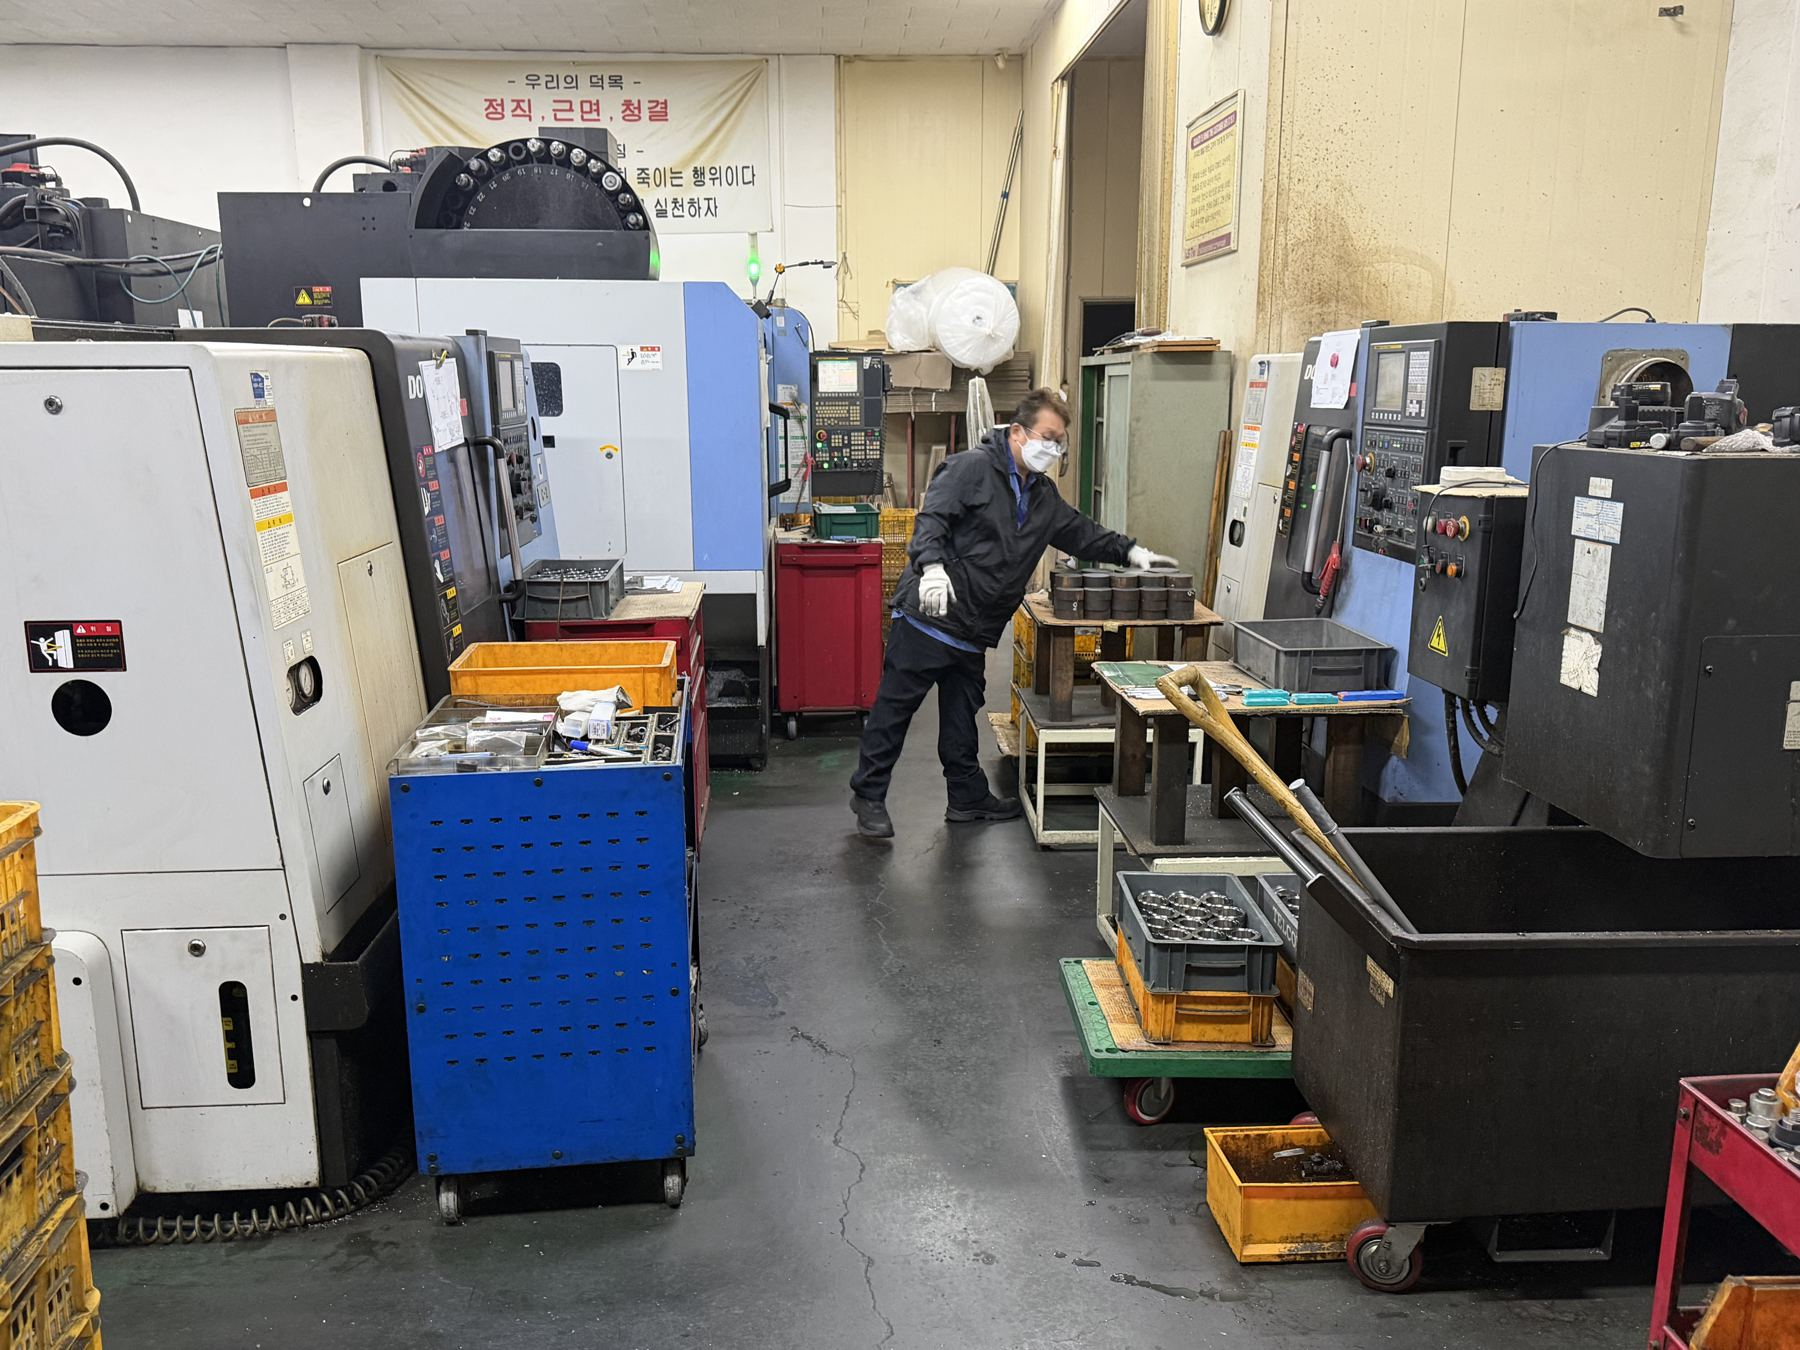
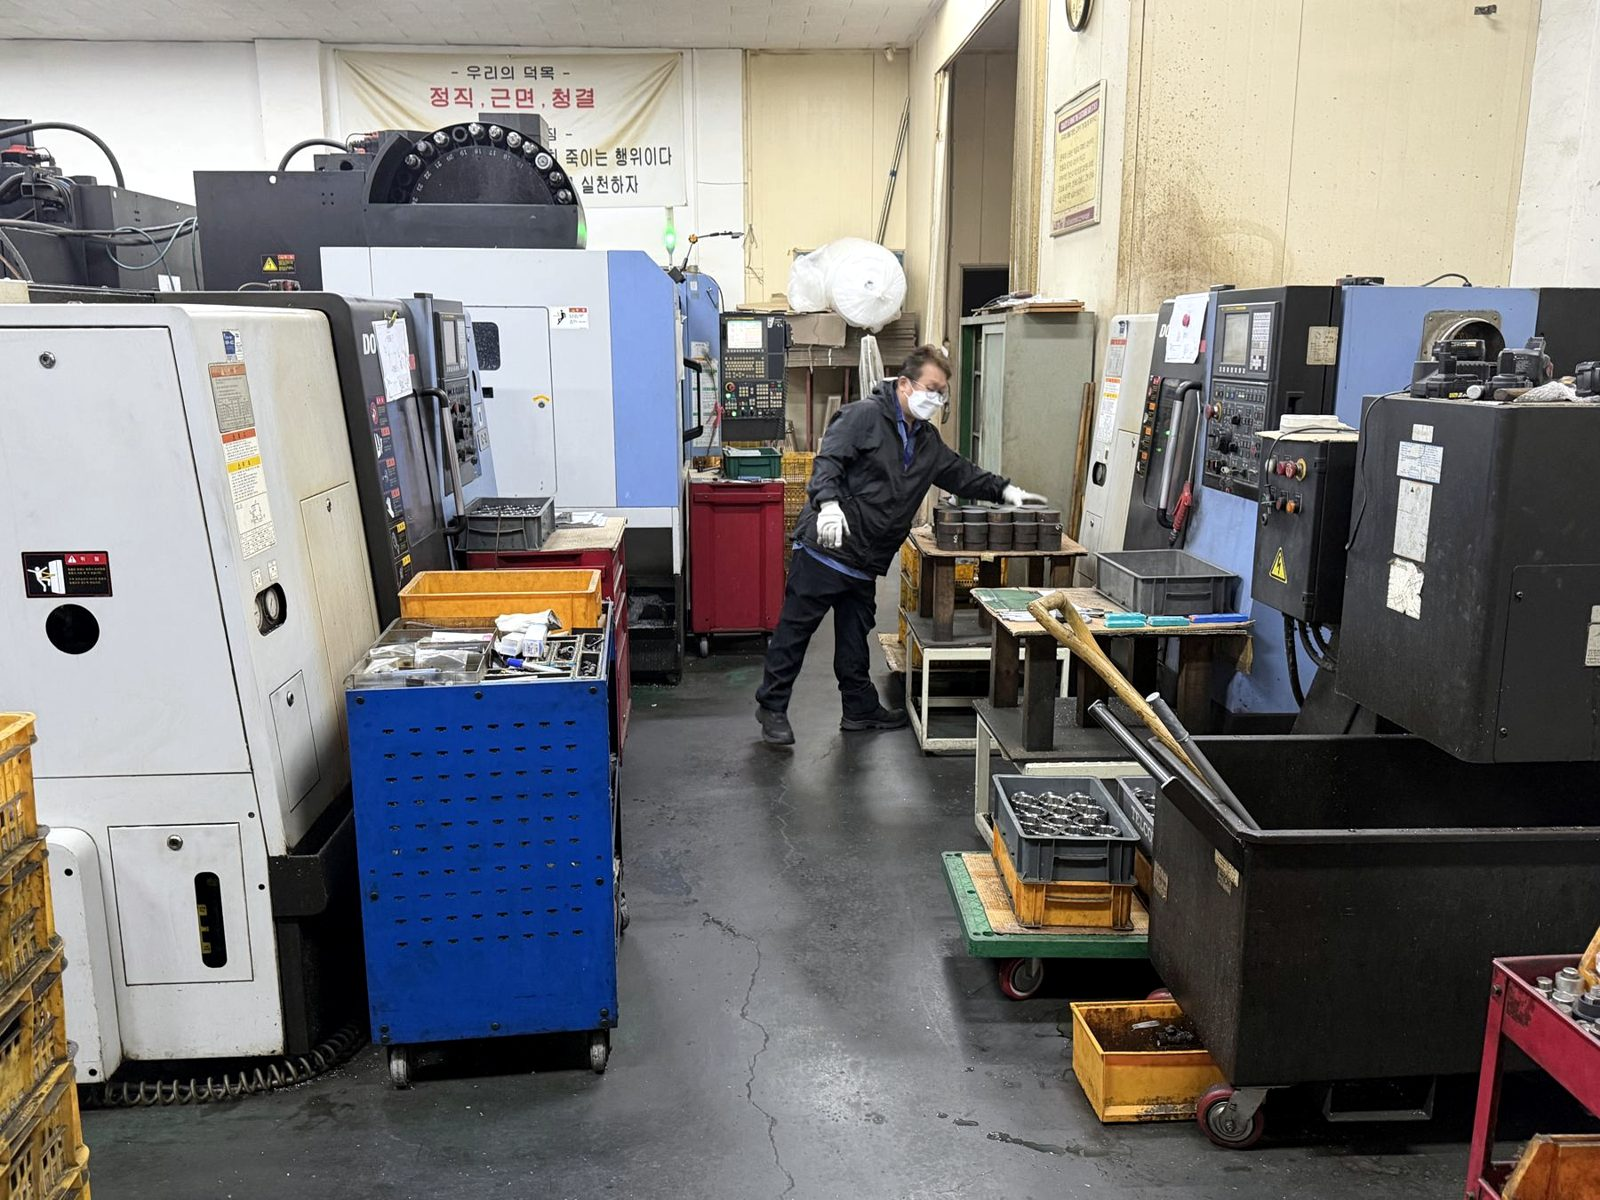
회사소개 페이지 다시 정리: 소개+공장 사진, 대표 띠, 공장 모습 4장, 품질 방침 3칸. 공장 사진 색 보정 통일, 홈 회사 소개 사진 한 장으로

diff --git a/about.html b/about.html
@@ -106,68 +106,75 @@
       </div>
     </div><!-- End Breadcrumbs -->
 
-    <!-- ======= About Section ======= -->
-    <section id="about" class="about">
-      <div class="container" data-aos="fade-up">
-
-        <div class="section-header">
-          <h2 data-i18n="about.intro.title">About</h2>
-          <p class="introduction" data-i18n="about.intro.body"> Our company is a manufacturing firm that specializes in meeting various customer demands by producing and
-            processing parts for  various applications. We utilize a range of techniques, including sheet
-            metal fabrication and machining, to create high-quality components and provide customized solutions for our
-            customers' projects. With our expertise and know-how, we establish efficient and precise production
-            processes to support our customers' business success. We are committed to quality and innovation, driving
-            continuous growth and development in the manufacturing sector.</p>
+    <!-- ======= Company intro ======= -->
+    <section class="ab-sec">
+      <div class="container ab-wrap">
+        <div class="row g-5 align-items-center">
+          <div class="col-lg-6">
+            <p class="ab-kicker">ASTM ENGINEERING · BSTM SHEET METAL</p>
+            <h2 class="ab-h2" data-i18n="about.intro.title">About</h2>
+            <p class="ab-lead" data-i18n="about.intro.body">Our company is a manufacturing firm that specializes in meeting various customer demands by producing and processing parts for various applications. We utilize a range of techniques, including sheet metal fabrication and machining, to create high-quality components and provide customized solutions for our customers' projects.</p>
+            <ul class="ab-facts">
+              <li><strong data-i18n="about.fact.1.big">20+</strong><span data-i18n="about.fact.1.small">years of machining</span></li>
+              <li><strong>ASTM</strong><span data-i18n="about.fact.2.small">CNC turning · MCT · gun drill</span></li>
+              <li><strong>BSTM</strong><span data-i18n="about.fact.3.small">laser · bending · welding</span></li>
+            </ul>
+          </div>
+          <div class="col-lg-6">
+            <img src="assets/img/factory/floor.jpg" alt="ASTM factory floor" class="ab-photo" loading="lazy">
+          </div>
         </div>
       </div>
-    </section><!-- End About Section -->
+    </section>
 
     <!-- ======= CEO ======= -->
-    <section id="ceo" class="about">
-      <div class="container" data-aos="fade-up">
-        <div class="row align-items-center g-4 justify-content-center">
-          <div class="col-md-4 col-8">
-            <img src="assets/img/factory/ceo.jpg" alt="Seung Soo Kim, CEO of ASTM Engineering" class="img-fluid rounded" style="width:100%;aspect-ratio:3/4;object-fit:cover;" loading="lazy">
+    <section class="ab-sec ab-tint">
+      <div class="container ab-wrap">
+        <div class="row g-5 align-items-center">
+          <div class="col-md-4 col-9 mx-auto mx-md-0">
+            <img src="assets/img/factory/ceo.jpg" alt="Seung Soo Kim, CEO of ASTM Engineering" class="ab-photo ab-photo-tall" loading="lazy">
           </div>
-          <div class="col-md-6">
-            <div class="section-header" style="text-align:left;padding-bottom:16px;">
-              <h2 data-i18n="about.ceo.title">CEO</h2>
-            </div>
-            <p style="font-size:17px;line-height:1.7;" data-i18n="about.ceo.body">Seung Soo Kim runs ASTM Engineering and BSTM. Quote requests and technical questions are answered by the CEO directly, so you can talk about your drawing with the person who makes the decisions.</p>
-            <p style="font-weight:700;margin-top:12px;font-size:17px;" data-i18n="about.ceo.name">Seung Soo Kim, CEO</p>
+          <div class="col-md-8">
+            <p class="ab-kicker" data-i18n="about.ceo.title">CEO</p>
+            <p class="ab-quote" data-i18n="about.ceo.body">Seung Soo Kim runs ASTM Engineering and BSTM. Quote requests and technical questions are answered by the CEO directly, so you can talk about your drawing with the person who makes the decisions.</p>
+            <p class="ab-name" data-i18n="about.ceo.name">Seung Soo Kim, CEO</p>
+            <a href="contact.html#contact-form" class="ab-btn" data-i18n="cta.quote">Contact Us</a>
           </div>
         </div>
       </div>
-    </section><!-- End CEO -->
+    </section>
 
-    <section id="about" class="about">
-      <div class="container" data-aos="fade-up">
-
-        <div class="section-header">
-          <h2 data-i18n="about.quality.title">Quality Policy</h2>
+    <!-- ======= Factory photos ======= -->
+    <section class="ab-sec">
+      <div class="container ab-wrap">
+        <h2 class="ab-h2" data-i18n="about.photos.title">Our factory</h2>
+        <p class="ab-sub" data-i18n="about.photos.lead">Photos taken at our factory in Namdong-gu, Incheon (October 2026).</p>
+        <div class="row g-4">
+          <figure class="col-6 col-lg-3 ab-fig"><img src="assets/img/factory/cnc_row.jpg" alt="" class="ab-photo" loading="lazy"><figcaption data-i18n="about.photos.cnc">CNC machining</figcaption></figure>
+          <figure class="col-6 col-lg-3 ab-fig"><img src="assets/img/factory/lathe.jpg" alt="" class="ab-photo" loading="lazy"><figcaption data-i18n="about.photos.lathe">Inside a CNC lathe</figcaption></figure>
+          <figure class="col-6 col-lg-3 ab-fig"><img src="assets/img/factory/pega357.jpg" alt="" class="ab-photo" loading="lazy"><figcaption>AMADA PEGA-357</figcaption></figure>
+          <figure class="col-6 col-lg-3 ab-fig"><img src="assets/img/factory/press_brake.jpg" alt="" class="ab-photo" loading="lazy"><figcaption data-i18n="about.photos.brake">AMADA press brake</figcaption></figure>
         </div>
-
-        <div class="quality-title">
-          <h6 data-i18n="about.quality.1.title">Customer-Centric Quality</h6>
-          <p data-i18n="about.quality.1.body">Our company places the customer at the forefront of our operations, striving to manufacture products that
-            meet and exceed their expectations. Quality is one of our core values.</p>
-        </div>
-
-        <div class="quality-title">
-          <h6 data-i18n="about.quality.2.title">Adherence to Stringent Quality Standards</h6>
-          <p data-i18n="about.quality.2.body">All products undergo rigorous testing and inspection to comply with strict quality standards and
-            regulations. This ensures the delivery of reliable products to our customers and prevents unnecessary
-            defects.</p>
-        </div>
-
-        <div class="quality-title">
-          <h6 data-i18n="about.quality.3.title">Continuous Quality Improvement</h6>
-          <p data-i18n="about.quality.3.body">We are committed to the continuous improvement of quality. We promote research and development to enhance
-            products and processes, leveraging customer feedback to enhance quality.</p>
-        </div>
-
       </div>
-    </section><!-- End About Section -->
+    </section>
+
+    <!-- ======= Quality policy ======= -->
+    <section class="ab-sec ab-tint">
+      <div class="container ab-wrap">
+        <h2 class="ab-h2" data-i18n="about.quality.title">Quality Policy</h2>
+        <div class="row g-4 mt-1">
+          <div class="col-lg-4"><div class="ab-card"><span class="ab-num">01</span>
+            <h3 data-i18n="about.quality.1.title">Customer-Centric Quality</h3>
+            <p data-i18n="about.quality.1.body">Our company places the customer at the forefront of our operations.</p></div></div>
+          <div class="col-lg-4"><div class="ab-card"><span class="ab-num">02</span>
+            <h3 data-i18n="about.quality.2.title">Adherence to Stringent Quality Standards</h3>
+            <p data-i18n="about.quality.2.body">All products undergo rigorous testing and inspection.</p></div></div>
+          <div class="col-lg-4"><div class="ab-card"><span class="ab-num">03</span>
+            <h3 data-i18n="about.quality.3.title">Continuous Quality Improvement</h3>
+            <p data-i18n="about.quality.3.body">We are committed to the continuous improvement of quality.</p></div></div>
+        </div>
+      </div>
+    </section>
 
     <!-- <section id="history" class="history">  
       <div class="section-header">

diff --git a/assets/js/i18n.js b/assets/js/i18n.js
@@ -100,6 +100,15 @@
       "about.ceo.title": "CEO",
       "about.ceo.body": "Seung Soo Kim runs ASTM Engineering and BSTM. Quote requests and technical questions are answered by the CEO directly, so you can talk about your drawing with the person who makes the decisions.",
       "about.ceo.name": "Seung Soo Kim, CEO",
+      "about.fact.1.big": "20+",
+      "about.fact.1.small": "years of making parts",
+      "about.fact.2.small": "CNC turning · MCT · gun drill",
+      "about.fact.3.small": "laser · bending · welding",
+      "about.photos.title": "Our factory",
+      "about.photos.lead": "Photos taken at our factory in Namdong-gu, Incheon (October 2026).",
+      "about.photos.cnc": "CNC machining area",
+      "about.photos.lathe": "Inside a CNC lathe",
+      "about.photos.brake": "AMADA press brake",
 
       "product.filter.all": "All",
       "product.filter.astm": "ASTM",
@@ -208,6 +217,15 @@
       "about.ceo.title": "대표",
       "about.ceo.body": "김승수 대표가 ASTM엔지니어링과 BSTM을 운영합니다. 견적 문의와 기술 질문에는 대표가 직접 답변드립니다. 도면을 보내 주시면 결정하는 사람과 바로 이야기하실 수 있습니다.",
       "about.ceo.name": "김승수 대표",
+      "about.fact.1.big": "20년",
+      "about.fact.1.small": "부품 가공 경험",
+      "about.fact.2.small": "CNC 선반 · MCT · 건드릴",
+      "about.fact.3.small": "레이저 · 절곡 · 용접",
+      "about.photos.title": "공장 모습",
+      "about.photos.lead": "인천 남동구 공장에서 2026년 10월에 찍은 사진입니다.",
+      "about.photos.cnc": "CNC 가공 현장",
+      "about.photos.lathe": "CNC 선반 내부",
+      "about.photos.brake": "AMADA 절곡기",
 
       "product.filter.all": "전체",
       "product.filter.astm": "ASTM",
@@ -316,6 +334,15 @@
       "about.ceo.title": "代表",
       "about.ceo.body": "キム・スンス代表がASTMエンジニアリングとBSTMを運営しています。お見積りや技術的なご質問には代表が直接お答えします。図面をお送りいただければ、決定権を持つ本人とすぐにご相談いただけます。",
       "about.ceo.name": "代表 キム・スンス",
+      "about.fact.1.big": "20年",
+      "about.fact.1.small": "部品加工の経験",
+      "about.fact.2.small": "CNC旋盤 · MCT · ガンドリル",
+      "about.fact.3.small": "レーザー · 曲げ · 溶接",
+      "about.photos.title": "工場の様子",
+      "about.photos.lead": "2026年10月、仁川・南洞区の工場で撮影した写真です。",
+      "about.photos.cnc": "CNC加工エリア",
+      "about.photos.lathe": "CNC旋盤の内部",
+      "about.photos.brake": "AMADAプレスブレーキ",
 
       "product.filter.all": "すべて",
       "product.filter.astm": "ASTM",

diff --git a/assets/css/main.css b/assets/css/main.css
@@ -1881,3 +1881,36 @@ Make all right containers behave like the left ones
 #contact-form {
   scroll-margin-top: 110px;
 }
+
+/*--------------------------------------------------------------
+# About page (company / CEO / factory / quality)
+--------------------------------------------------------------*/
+.ab-sec { padding: 72px 0; background: #fff; }
+.ab-tint { background: #f6f4f6; }
+.ab-wrap { max-width: 1080px; }
+.ab-kicker { color: #7a2964; font-size: 13px; font-weight: 700; letter-spacing: .08em; margin-bottom: 10px; text-transform: uppercase; }
+.ab-h2 { font-size: 32px; font-weight: 700; color: #1f1f24; margin-bottom: 18px; }
+.ab-lead { font-size: 17px; line-height: 1.75; color: #444; margin-bottom: 0; }
+.ab-sub { font-size: 15px; color: #6b6b75; margin: -6px 0 26px; }
+.ab-facts { list-style: none; padding: 0; margin: 28px 0 0; display: flex; gap: 0; border-top: 1px solid #e4e0e4; }
+.ab-facts li { flex: 1; padding: 16px 12px 0 0; }
+.ab-facts strong { display: block; font-size: 24px; color: #7a2964; line-height: 1.2; }
+.ab-facts span { font-size: 14px; color: #555; }
+.ab-photo { width: 100%; aspect-ratio: 4 / 3; object-fit: cover; border-radius: 8px; display: block; }
+.ab-photo-tall { aspect-ratio: 3 / 4; }
+.ab-quote { font-size: 21px; line-height: 1.65; color: #1f1f24; font-weight: 500; margin-bottom: 16px; }
+.ab-name { font-size: 16px; font-weight: 700; color: #555; margin-bottom: 26px; }
+.ab-btn { display: inline-block; background: #7a2964; color: #fff; padding: 11px 26px; border-radius: 6px; font-weight: 600; font-size: 15px; }
+.ab-btn:hover { background: #5f1f4e; color: #fff; }
+.ab-fig { margin: 0; }
+.ab-fig figcaption { font-size: 14px; color: #555; margin-top: 8px; }
+.ab-card { background: #fff; border-radius: 8px; padding: 26px 24px; height: 100%; border: 1px solid #ebe6eb; }
+.ab-num { color: #7a2964; font-weight: 700; font-size: 14px; }
+.ab-card h3 { font-size: 18px; font-weight: 700; color: #1f1f24; margin: 8px 0 10px; }
+.ab-card p { font-size: 15px; line-height: 1.7; color: #555; margin: 0; }
+@media (max-width: 767px) {
+  .ab-sec { padding: 52px 0; }
+  .ab-h2 { font-size: 26px; }
+  .ab-quote { font-size: 18px; }
+  .ab-facts strong { font-size: 20px; }
+}

diff --git a/index.html b/index.html
@@ -191,7 +191,7 @@
 
         <div class="row gy-4">
           <div class="col-lg-7 position-relative about-img"
-            style="background-image: url(assets/img/factory/pega357.jpg); background-position: center; background-size: cover; background-repeat: no-repeat;"
+            style="background-image: url(assets/img/factory/pega357.jpg); background-position: center; background-size: cover; background-repeat: no-repeat; border-radius: 8px; min-height: 380px;"
             data-aos="fade-up" data-aos-delay="150">
           </div>
           <div class="col-lg-5 d-flex align-items-end" data-aos="fade-up" data-aos-delay="300">
@@ -212,8 +212,7 @@
                 velit esse cillum dolore eu fugiat nulla pariatur. Excepteur sint occaecat cupidatat non proident
               </p> -->
 
-              <div class="position-relative mt-4">
-                <img src="assets/img/factory/lathe.jpg" class="img-fluid" alt="CNC lathe at the ASTM factory" loading="lazy">
+              <div class="position-relative mt-4 d-none">
                 <!-- <a href="https://www.youtube.com/watch?v=LXb3EKWsInQ" class="glightbox play-btn"></a> -->
               </div>
             </div>
